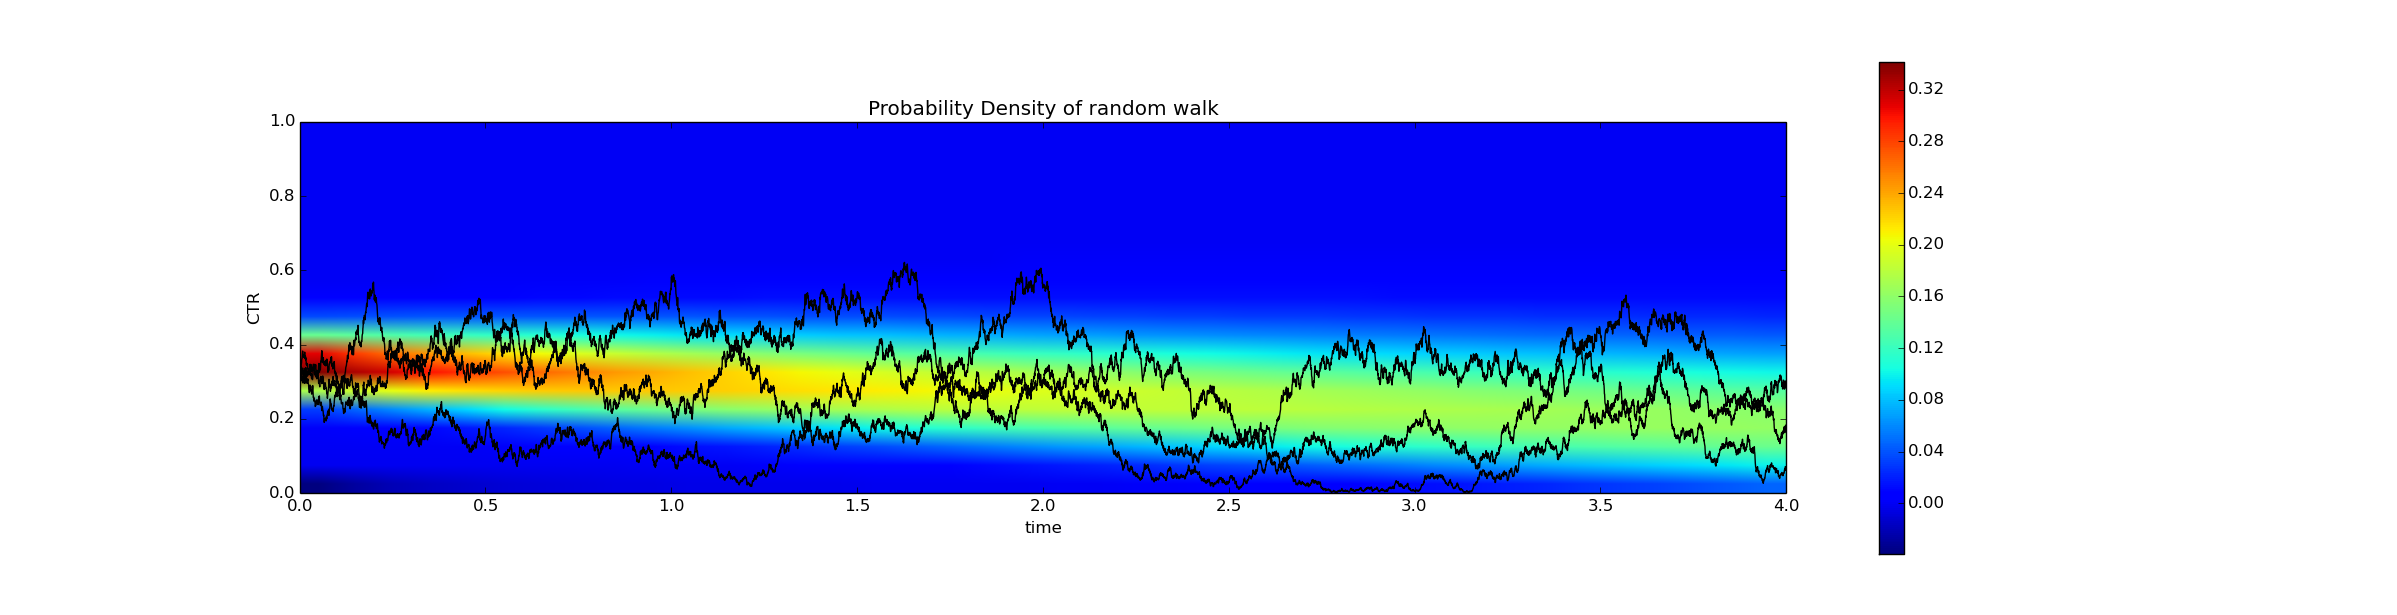
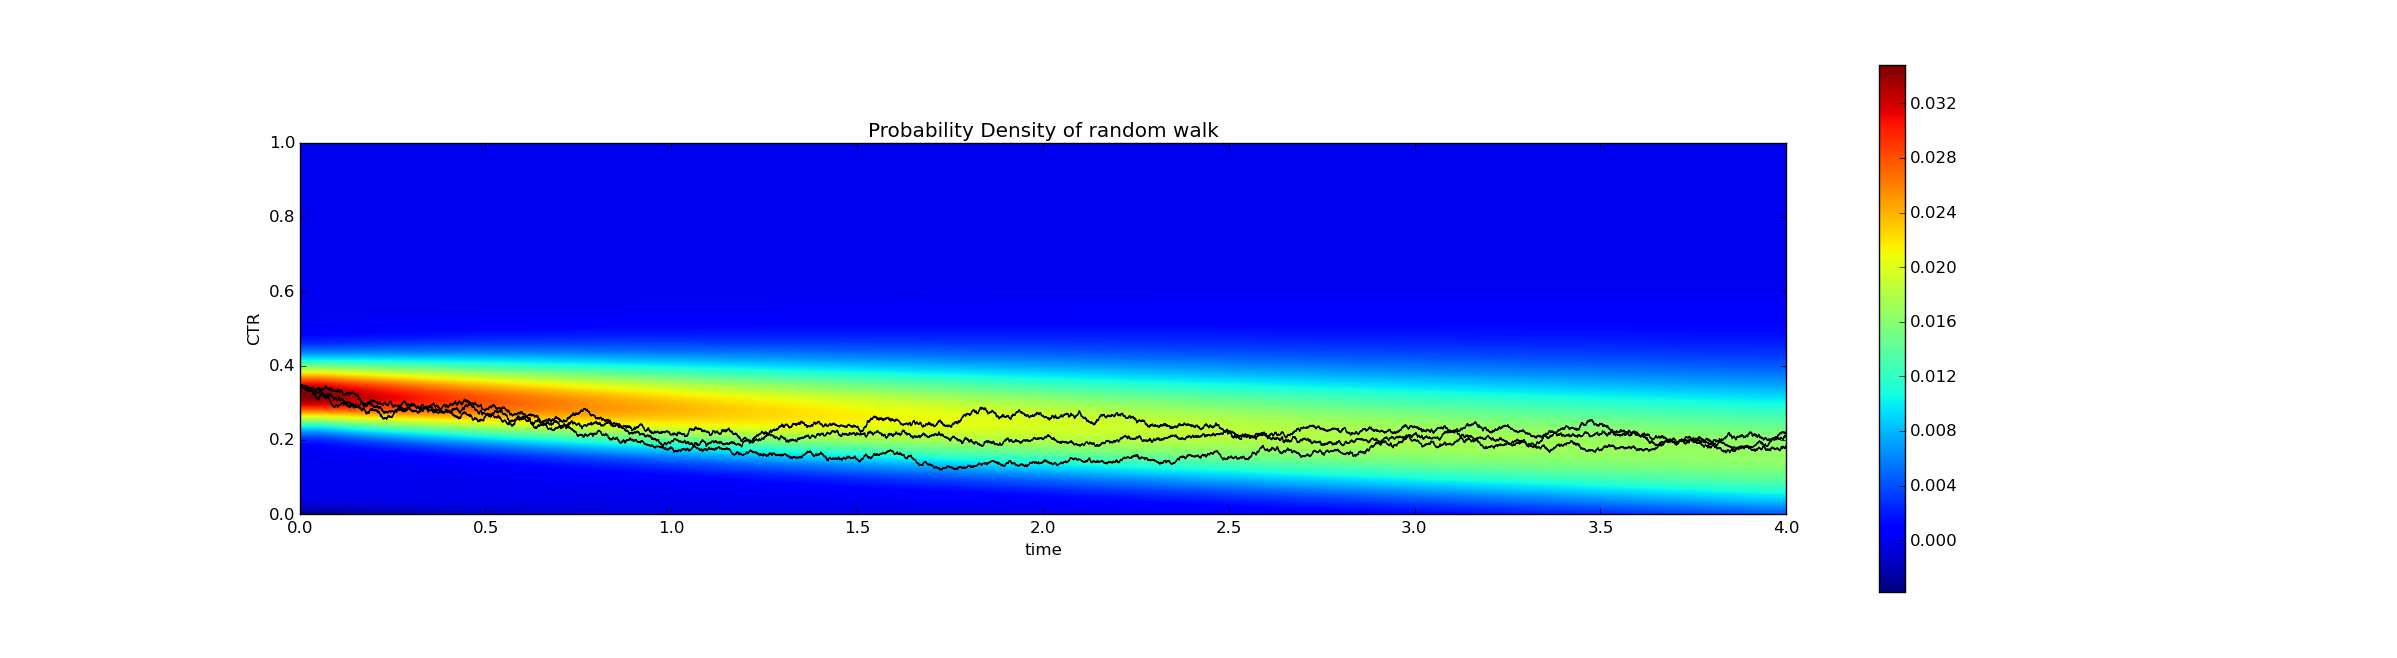
minor fix

diff --git a/pelican/content/blog_media/2013/time_varying_conversion_rates/jacobi_diffusion.py b/pelican/content/blog_media/2013/time_varying_conversion_rates/jacobi_diffusion.py
@@ -24,7 +24,7 @@ def dW(dt):
 def random_walk(y0, tmax, dt, times = None):
     dt = dt * tscale
     def rhs(y,t):
-        return -theta*(y-(a-b)/(a+b+2)) + sqrt(2*theta*(1-y*y)/(a+b+2))*dW(dt)
+        return -theta*(y-(a-b)/(a+b+2)) + sqrt(2*theta*(1-y*y)/(a+b+2))*dW(dt/tscale)
     if (times is None):
         times = arange(0,tmax,dt)
     y = zeros(shape=times.shape, dtype=float)
@@ -97,6 +97,7 @@ def propagate_jacobi(pc, t):
     n = arange(pc.shape[0], dtype=float)
     l = theta*n*(n+a+b+1.0)/(a+b+2.0)*tscale
     return exp(-l*t)*pc
+
 
 def pde_solve(prior, t):
     result = zeros(shape=(t.shape[0], prior.shape[0]), dtype=float)
